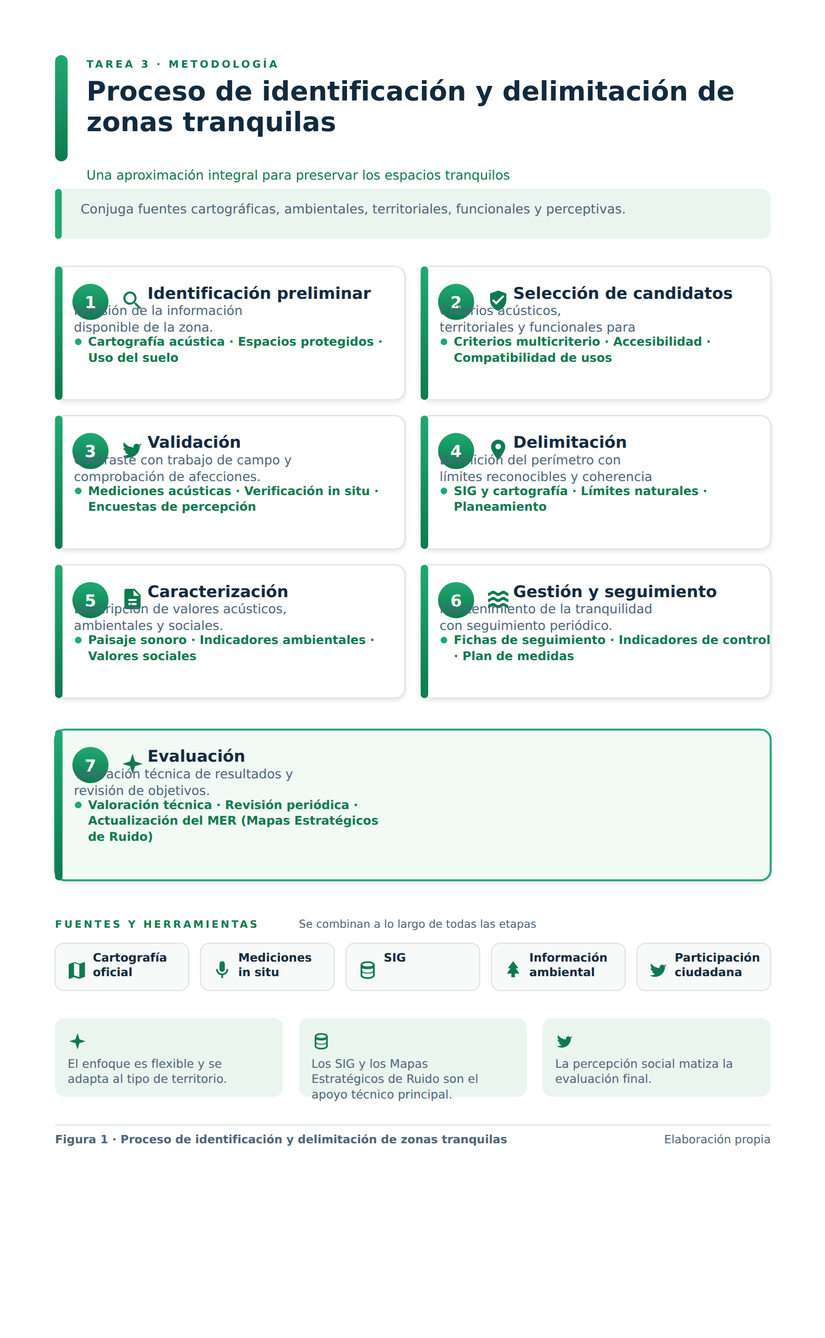
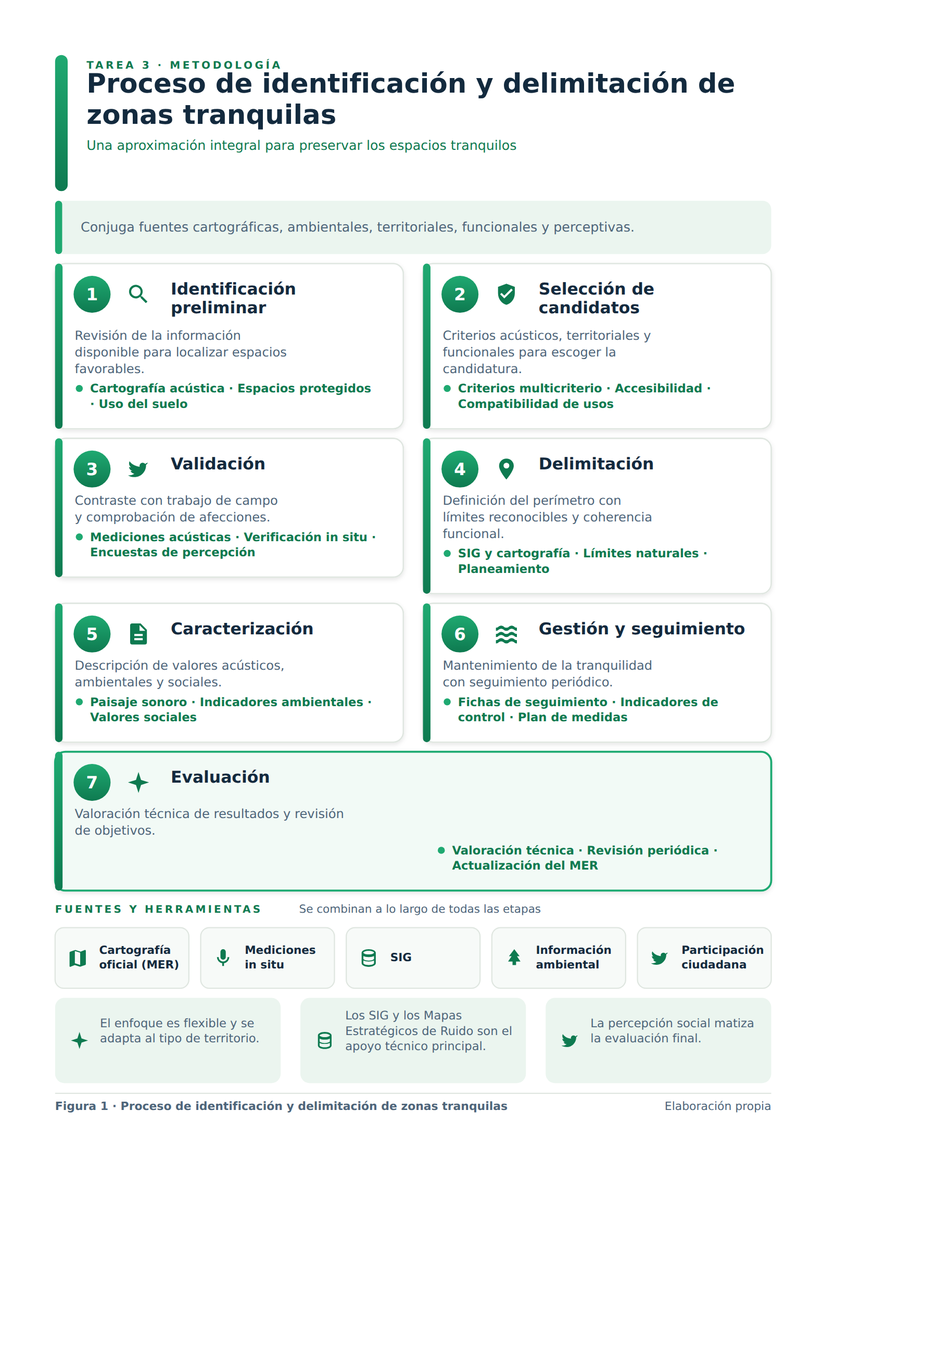
fix(prototipo): aire garantizado texto/icono, notas en columna y numeracion (NaN); verificador con matriz real del SVG

diff --git a/docs/prototipo-informe-a4/prototipo-informe-a4.html b/docs/prototipo-informe-a4/prototipo-informe-a4.html
@@ -1,10 +1,15 @@
 <!DOCTYPE html>
-<html lang="es"><head><meta charset="UTF-8"><title>Prototipo informe A4 v4</title>
+<html lang="es"><head><meta charset="UTF-8"><title>Prototipo informe A4 v5 (medido)</title>
 <style>html,body{margin:0;background:#fff}svg{display:block}</style>
 </head><body>
 <script>
-// ===== Prototipo v4: página A4 (210x297mm) para pegar en Word.
-// Toda la geometría en milímetros; el alto de cada tarjeta se MIDE, no se adivina.
+/* =========================================================================
+   Prototipo v5 — página A4 (210x297 mm) para pegar en Word.
+   REGLA DE ORO: no se estima nada. Cada línea se MIDE con getComputedTextLength()
+   y cada caja se dimensiona a su contenido. Aire garantizado entre icono y texto.
+   ========================================================================= */
+const NS='http://www.w3.org/2000/svg';
+const FONT="'Helvetica Neue',Helvetica,Arial,sans-serif";
 const LOGOS = {
   lupa:'M15.5 14h-.8l-.3-.3a6.5 6.5 0 1 0-.7.7l.3.3v.8l5 5 1.5-1.5-5-5zm-6 0a4.5 4.5 0 1 1 0-9 4.5 4.5 0 0 1 0 9z',
   escudo:'M12 2L4 5v6c0 5.5 3.4 9.7 8 11 4.6-1.3 8-5.5 8-11V5l-8-3zm-2 14l-4-4 1.4-1.4L10 13.2l6.6-6.6L18 8l-8 8z',
@@ -19,118 +24,185 @@ const LOGOS = {
   micro:'M12 14a3 3 0 0 0 3-3V5a3 3 0 0 0-6 0v6a3 3 0 0 0 3 3zm5-3a5 5 0 0 1-10 0H5a7 7 0 0 0 6 6.9V21h2v-3.1A7 7 0 0 0 19 11h-2z'
 };
 const PASOS = [
-  {t:'Identificación preliminar', i:'lupa',   d:'Revisión de la información disponible de la zona.', b:['Cartografía acústica','Espacios protegidos','Uso del suelo']},
-  {t:'Selección de candidatos',   i:'escudo', d:'Criterios acústicos, territoriales y funcionales para escoger.', b:['Criterios multicriterio','Accesibilidad','Compatibilidad de usos']},
+  {t:'Identificación preliminar', i:'lupa',   d:'Revisión de la información disponible para localizar espacios favorables.', b:['Cartografía acústica','Espacios protegidos','Uso del suelo']},
+  {t:'Selección de candidatos',   i:'escudo', d:'Criterios acústicos, territoriales y funcionales para escoger la candidatura.', b:['Criterios multicriterio','Accesibilidad','Compatibilidad de usos']},
   {t:'Validación',                i:'pajaro', d:'Contraste con trabajo de campo y comprobación de afecciones.', b:['Mediciones acústicas','Verificación in situ','Encuestas de percepción']},
   {t:'Delimitación',              i:'pin',    d:'Definición del perímetro con límites reconocibles y coherencia funcional.', b:['SIG y cartografía','Límites naturales','Planeamiento']},
   {t:'Caracterización',           i:'documento', d:'Descripción de valores acústicos, ambientales y sociales.', b:['Paisaje sonoro','Indicadores ambientales','Valores sociales']},
   {t:'Gestión y seguimiento',     i:'onda',   d:'Mantenimiento de la tranquilidad con seguimiento periódico.', b:['Fichas de seguimiento','Indicadores de control','Plan de medidas']},
-  {t:'Evaluación',                i:'chispa', d:'Valoración técnica de resultados y revisión de objetivos.', b:['Valoración técnica','Revisión periódica','Actualización del MER (Mapas Estratégicos de Ruido)']}
+  {t:'Evaluación',                i:'chispa', d:'Valoración técnica de resultados y revisión de objetivos.', b:['Valoración técnica','Revisión periódica','Actualización del MER']}
 ];
-const FUENTES = [['mapa','Cartografía oficial (MER)'],['micro','Mediciones in situ'],['bd','SIG'],['arbol','Información ambiental'],['pajaro','Participación ciudadana']];
-const NOTAS = [['chispa','El enfoque es flexible y se adapta al tipo de territorio.'],['bd','Los SIG y los Mapas Estratégicos de Ruido son el apoyo técnico principal.'],['pajaro','La percepción social matiza la evaluación final.']];
-const INTRO = 'Conjuga fuentes cartográficas, ambientales, territoriales, funcionales y perceptivas.';
-const TITULO = 'Proceso de identificación y delimitación de zonas tranquilas';
-const SUB = 'Una aproximación integral para preservar los espacios tranquilos';
+const FUENTES=[['mapa','Cartografía oficial (MER)'],['micro','Mediciones in situ'],['bd','SIG'],['arbol','Información ambiental'],['pajaro','Participación ciudadana']];
+const NOTAS=[['chispa','El enfoque es flexible y se adapta al tipo de territorio.'],['bd','Los SIG y los Mapas Estratégicos de Ruido son el apoyo técnico principal.'],['pajaro','La percepción social matiza la evaluación final.']];
+const INTRO='Conjuga fuentes cartográficas, ambientales, territoriales, funcionales y perceptivas.';
+const TITULO='Proceso de identificación y delimitación de zonas tranquilas';
+const SUB='Una aproximación integral para preservar los espacios tranquilos';
 
 const VERDE='#1FA971', VERDE_OSC='#0E7A50', TINTA='#132A3E', TINTA2='#4E657A', BORDE='#DFE6E0', VERDE_CLARO='#EBF5EF';
 const esc = s => String(s).replace(/[&<>]/g, m => ({'&':'&amp;','<':'&lt;','>':'&gt;'}[m]));
-const IC = (n,x,y,s,c)=>`<g transform="translate(${x},${y}) scale(${s/24})"><path d="${LOGOS[n]||LOGOS.chispa}" fill="${c}"/></g>`;
-function wrap(txt, maxMM, fs, maxLin){ const max=Math.max(4,Math.floor(maxMM/(fs*0.565))); const w=String(txt).split(/\s+/); const out=[]; let l='';
-  for(const p of w){ if((l+' '+p).trim().length>max && l){out.push(l); l=p;} else l=(l+' '+p).trim(); } if(l) out.push(l);
-  return maxLin?out.slice(0,maxLin):out; }
-function txt(x,y,fs,s,c,w,anch,tr){ return `<text x="${x}" y="${y}" font-family="'Helvetica Neue',Arial,sans-serif" font-size="${fs}" font-weight="${w||400}" fill="${c}" text-anchor="${anch||'start'}"${tr?` letter-spacing="${tr}"`:''}>${esc(s)}</text>`; }
-const blk=(x,y,fs,lh,ls,c,w)=>ls.map((l,i)=>txt(x,y+i*lh,fs,l,c,w)).join('');
-const PADT=4.6, LHT=4.7, LHD=4.2, LHB=4.0;
 
-// --- mide el contenido de una tarjeta ANTES de dibujarla (nada de adivinar) ---
-function layoutTarjeta(p, w, full){
-  const anchoT = full ? (w-34)/2 : w-28;
-  const tls = wrap(p.t, anchoT, 4.1, 2);
-  const dls = wrap(p.d, anchoT, 3.25, tls.length>1 ? 1 : 2);
-  const bw   = full ? (w-34)/2 : w-9;
-  const bls  = wrap(p.b.join(' · '), bw, 3.05, full?3:2);
-  const alto = PADT + tls.length*LHT + 1.4 + dls.length*LHD + 2.6 + bls.length*LHB + 3.4;
-  return {tls,dls,bls,alto};
+/* ---------- MEDIDOR REAL (getComputedTextLength) ---------- */
+const medidor = document.createElementNS(NS,'svg');
+medidor.setAttribute('viewBox','0 0 210 297');
+medidor.setAttribute('style','position:absolute;left:-9999px;top:0;width:210mm');
+const tMed = document.createElementNS(NS,'text'); medidor.appendChild(tMed);
+document.body.appendChild(medidor);
+function anchoReal(t,fs,peso,tr){
+  tMed.setAttribute('font-family',FONT); tMed.setAttribute('font-size',fs);
+  tMed.setAttribute('font-weight',peso||400); tMed.setAttribute('letter-spacing',tr||'0');
+  tMed.textContent=t; return tMed.getComputedTextLength();
 }
-function tarjeta(p, idx, x, yy, w, h, full){
-  const L = layoutTarjeta(p, w, full);
-  let o = `<rect x="${x}" y="${yy}" width="${w}" height="${h}" rx="2.6" fill="${full?'#F2FAF6':'#FFFFFF'}" stroke="${full?VERDE:BORDE}" stroke-width="${full?0.5:0.35}" filter="url(#sh)"/>`;
-  o += `<rect x="${x}" y="${yy}" width="1.9" height="${h}" rx="0.95" fill="url(#gNum)"/>`;
-  o += `<circle cx="${x+9}" cy="${yy+9}" r="4.6" fill="url(#gNum)"/>`;
-  o += txt(x+9, yy+10.6, 4.2, String(idx+1), '#FFFFFF', 700, 'middle');
-  o += IC(p.i, x+16.6, yy+5.6, 6.2, VERDE_OSC);
-  let cy = yy + PADT + 3.6;
-  o += blk(x+23.5, cy, 4.1, LHT, L.tls, TINTA, 700);
-  cy += (L.tls.length-1)*LHT + 4.2;
-  o += blk(x+4.8, cy, 3.25, LHD, L.dls, TINTA2, 400);
-  cy += (L.dls.length-1)*LHD + 3.6;
-  o += `<circle cx="${x+5.9}" cy="${cy-1.05}" r="0.85" fill="${VERDE}"/>`;
-  o += blk(x+8.4, cy, 3.05, LHB, L.bls, VERDE_OSC, 600);
-  s += o;
+const AVISOS=[];
+function wrapReal(texto, anchoMax, fs, peso, maxLin){
+  const palabras=String(texto).split(/\s+/); const lineas=[]; let l='';
+  for(const p of palabras){ const cand=l?l+' '+p:p;
+    if(anchoReal(cand,fs,peso)>anchoMax && l){ lineas.push(l); l=p; } else l=cand; }
+  if(l) lineas.push(l);
+  return { lineas: maxLin?lineas.slice(0,maxLin):lineas, cortado: !!(maxLin && lineas.length>maxLin) };
+}
+const txt=(x,y,fs,s,c,w,anch,tr)=>`<text x="${(+x).toFixed(2)}" y="${(+y).toFixed(2)}" font-family="${FONT}" font-size="${fs}" font-weight="${w||400}" fill="${c}" text-anchor="${anch||'start'}"${tr?` letter-spacing="${tr}"`:''}>${esc(s)}</text>`;
+const IC=(n,x,y,s,c)=>`<g transform="translate(${(+x).toFixed(2)},${(+y).toFixed(2)}) scale(${s/24})"><path d="${LOGOS[n]||LOGOS.chispa}" fill="${c}"/></g>`;
+const bloque=(x,y,fs,lh,ls,c,w)=>ls.map((l,i)=>txt(x,y+i*lh,fs,l,c,w)).join('');
+// mueve un bloque dibujado en (0, y0) a (dx, dy)
+function reubicar(svgStr, dx, dy){
+  return svgStr
+    .replace(/translate\((-?[\d.]+),\s*(-?[\d.]+)\)/g, (m,a,b)=>`translate(${(+a+dx).toFixed(2)},${(+b+dy).toFixed(2)})`)
+    .replace(/\b(x|y|cx|cy)="(-?[\d.]+)"/g, (m,k,v)=>{
+      const n=parseFloat(v); if(!isFinite(n)) return m;
+      return (k==='x'||k==='cx') ? k+'="'+(n+dx).toFixed(2)+'"' : k+'="'+(n+dy).toFixed(2)+'"';
+    });
 }
 
-const M=14, W=210, H=297, UTIL=W-2*M, GAP=4, CW=(UTIL-GAP)/2;
-let s = `<svg xmlns="http://www.w3.org/2000/svg" width="${(W/25.4*96).toFixed(1)}" height="${(H/25.4*96).toFixed(1)}" viewBox="0 0 ${W} ${H}">`;
-s += `<defs>
- <linearGradient id="gNum" x1="0" y1="0" x2="0" y2="1"><stop offset="0" stop-color="${VERDE}"/><stop offset="1" stop-color="${VERDE_OSC}"/></linearGradient>
- <filter id="sh" x="-8%" y="-8%" width="116%" height="116%"><feDropShadow dx="0" dy="0.45" stdDeviation="0.55" flood-color="#0d1f17" flood-opacity="0.10"/></filter>
-</defs><rect width="${W}" height="${H}" fill="#FFFFFF"/>`;
+/* ---------- geometría ---------- */
+const M=14, W=210, H=297, UTIL=W-2*M, GAPCOL=5, CW=(UTIL-GAPCOL)/2;
+const PADX=5, PADY=4.4, COL_ICONO=29.4;   // el texto arranca 29,4 mm desde el borde de la tarjeta
 
-// CABECERA
-let y=M;
-s += `<rect x="${M}" y="${y}" width="3.2" height="27" rx="1.6" fill="url(#gNum)"/>`;
-s += txt(M+8, y+3.2, 2.6, 'TAREA 3 · METODOLOGÍA', VERDE_OSC, 700, 'start', 0.6);
-const tl = wrap(TITULO, UTIL-13, 6.8, 2);
-s += blk(M+8, y+11.5, 6.8, 7.9, tl, TINTA, 700);
-s += txt(M+8, y+11.5+tl.length*7.9+4.4, 3.3, SUB, VERDE_OSC, 500);
-y += 34;
+function tarjeta(p, idx, x0, w, full){
+  const anchoTxt = full ? (w-COL_ICONO-PADX-6) : w-COL_ICONO-PADX;
+  const T={fs:4.15,lh:4.75}, D={fs:3.2,lh:4.2}, B={fs:3.0,lh:3.9};
+  const t=wrapReal(p.t, anchoTxt, T.fs, 700, 2);
+  const d=wrapReal(p.d, full?(w-COL_ICONO-PADX-6)/2:anchoTxt, D.fs, 400, 3);
+  const bw  = full ? (w-COL_ICONO-PADX-9)/2 : w-PADX-3.9-PADX-1;
+  const b=wrapReal(p.b.join(' · '), bw, B.fs, 600, 2);
+  if(t.cortado||d.cortado||b.cortado) AVISOS.push(p.t+(t.cortado?' (título)':d.cortado?' (descripción)':' (bullets)'));
+  // --- separación garantizada: el texto nunca queda a menos de 3 mm de un icono ---
+  const ICONO_TOP=PADY+0.2, ICONO_SIZE=6.4, AIRE_ICONO_TXT=3.0;
+  const iconoAbajo=ICONO_TOP+ICONO_SIZE;
+  const tituloBase=PADY+3.5;
+  const descBase=Math.max(tituloBase+t.lineas.length*T.lh+2.0, iconoAbajo+AIRE_ICONO_TXT+2.9);
+  const ultimaDesc=descBase+(d.lineas.length-1)*D.lh;
+  const bulletsBase=ultimaDesc+5.0;
+  const alto=bulletsBase+(b.lineas.length-1)*B.lh+PADY+0.9;
+  let o='';
+  o+=`<rect x="${x0}" y="0" width="${w}" height="${alto.toFixed(2)}" rx="2.6" fill="${full?'#F2FAF6':'#FFFFFF'}" stroke="${full?VERDE:BORDE}" stroke-width="${full?0.5:0.35}" filter="url(#sh)"/>`;
+  o+=`<rect x="${x0}" y="0" width="1.9" height="${alto.toFixed(2)}" rx="0.95" fill="url(#gNum)"/>`;
+  const cyN=PADY+3.4;
+  o+=`<circle cx="${(x0+9.4).toFixed(2)}" cy="${cyN.toFixed(2)}" r="4.7" fill="url(#gNum)"/>`;
+  o+=txt(x0+9.4, cyN+1.5, 4.3, String(idx+1), '#FFFFFF', 700, 'middle');
+  o+=IC(p.i, x0+COL_ICONO-11.4, ICONO_TOP, ICONO_SIZE, VERDE_OSC);
+  o+=bloque(x0+COL_ICONO, tituloBase, T.fs, T.lh, t.lineas, TINTA, 700);
+  o+=bloque(x0+PADX, descBase, D.fs, D.lh, d.lineas, TINTA2, 400);
+  const bx = full ? x0 + w/2 + 6 : x0+PADX;
+  o+=`<circle cx="${(bx+1.15).toFixed(2)}" cy="${(bulletsBase-1.05).toFixed(2)}" r="0.9" fill="${VERDE}"/>`;
+  o+=bloque(bx+3.9, bulletsBase, B.fs, B.lh, b.lineas, VERDE_OSC, 600);
+  return {svg:o, alto};
+}
 
-// INTRO
-const il = wrap(INTRO, UTIL-16, 3.3); const iH = 8+il.length*4.7;
-s += `<rect x="${M}" y="${y}" width="${UTIL}" height="${iH}" rx="2.2" fill="${VERDE_CLARO}"/>`;
-s += `<rect x="${M}" y="${y}" width="1.7" height="${iH}" rx="0.85" fill="${VERDE}"/>`;
-s += blk(M+6.5, y+6.2, 3.3, 4.7, il, TINTA2, 400);
-y += iH+7;
+let bloques=[];
+// cabecera
+{
+  const tl=wrapReal(TITULO, UTIL-12, 6.8, 700, 2), sl=wrapReal(SUB, UTIL-12, 3.35, 500, 2);
+  if(tl.cortado||sl.cortado) AVISOS.push('cabecera');
+  const alto=3.4+6.2+tl.lineas.length*7.9+6.6+sl.lineas.length*4.6-2;
+  let o=`<rect x="${M}" y="0" width="3.2" height="${alto.toFixed(2)}" rx="1.6" fill="url(#gNum)"/>`;
+  let cy=3.4; o+=txt(M+8, cy, 2.65, 'TAREA 3 · METODOLOGÍA', VERDE_OSC, 700, 'start', 0.6); cy+=6.2;
+  o+=bloque(M+8, cy, 6.8, 7.9, tl.lineas, TINTA, 700); cy+=(tl.lineas.length-1)*7.9+6.6;
+  o+=bloque(M+8, cy, 3.35, 4.6, sl.lineas, VERDE_OSC, 500);
+  bloques.push({svg:o, alto});
+}
+// intro
+{
+  const il=wrapReal(INTRO, UTIL-13, 3.35, 400);
+  const alto=PADY+il.lineas.length*4.75+PADY;
+  let o=`<rect x="${M}" y="0" width="${UTIL}" height="${alto.toFixed(2)}" rx="2.2" fill="${VERDE_CLARO}"/>`;
+  o+=`<rect x="${M}" y="0" width="1.8" height="${alto.toFixed(2)}" rx="0.9" fill="${VERDE}"/>`;
+  o+=bloque(M+6.5, PADY+3.4, 3.35, 4.75, il.lineas, TINTA2, 400);
+  bloques.push({svg:o, alto});
+}
+// pasos 1..6 en 2 columnas (altura de la fila = la mayor de las dos)
+{
+  const pares=PASOS.slice(0,PASOS.length-1);
+  for(let f=0;f<Math.ceil(pares.length/2);f++){
+    const c1=f*2<pares.length?tarjeta(pares[f*2], f*2, 0, CW, false):null;
+    const c2=f*2+1<pares.length?tarjeta(pares[f*2+1], f*2+1, 0, CW, false):null;
+    const alto=Math.max(c1?c1.alto:0, c2?c2.alto:0);
+    let o='';
+    if(c1) o+=reubicar(c1.svg, M, 0);
+    if(c2) o+=reubicar(c2.svg, M+CW+GAPCOL, 0);
+    bloques.push({svg:o, alto});
+  }
+}
+// paso 7 a ancho completo
+{ const c=tarjeta(PASOS[PASOS.length-1], PASOS.length-1, M, UTIL, true); bloques.push({svg:c.svg, alto:c.alto}); }
+// fuentes
+{
+  const fGap=3, fW=(UTIL-4*fGap)/5;
+  const meds=FUENTES.map(([ic,lab])=>{ const r=wrapReal(lab, fW-13, 2.85, 600, 2); if(r.cortado) AVISOS.push('fuente: '+lab); return r; });
+  const maxL=Math.max.apply(null, meds.map(m=>m.lineas.length));
+  const alto=7+Math.max(11, maxL*3.7+8);
+  let o=txt(M, 3.2, 2.65, 'FUENTES Y HERRAMIENTAS', VERDE_OSC, 700, 'start', 0.55);
+  o+=txt(M+62, 3.2, 2.85, 'Se combinan a lo largo de todas las etapas', TINTA2, 400);
+  FUENTES.forEach(([ic,lab],j)=>{ const fx=M+j*(fW+fGap), altoC=alto-7;
+    o+=`<rect x="${fx.toFixed(2)}" y="7" width="${fW.toFixed(2)}" height="${altoC.toFixed(2)}" rx="2.2" fill="#F7FAF8" stroke="${BORDE}" stroke-width="0.3"/>`;
+    o+=IC(ic, fx+3.0, 7+altoC/2-2.7, 5.4, VERDE_OSC);
+    const h=meds[j].lineas.length*3.7;
+    o+=bloque(fx+11.2, 7+altoC/2-h/2+2.7, 2.85, 3.7, meds[j].lineas, TINTA, 600);
+  });
+  bloques.push({svg:o, alto});
+}
+// notas (icono a la izquierda, texto a la derecha → nunca se pisan)
+{
+  const nGap=5, nW=(UTIL-2*nGap)/3, ANCHO_TXT=nW-13.5;
+  const meds=NOTAS.map(([ic,t0])=>{ const r=wrapReal(t0, ANCHO_TXT, 3.0, 500, 4); if(r.cortado) AVISOS.push('nota: '+t0.slice(0,24)); return r; });
+  const maxL=Math.max.apply(null, meds.map(m=>m.lineas.length));
+  const alto=5.0+maxL*3.9+5.0;
+  let o='';
+  NOTAS.forEach(([ic],j)=>{ const nx=M+j*(nW+nGap);
+    o+=`<rect x="${nx.toFixed(2)}" y="0" width="${nW.toFixed(2)}" height="${alto.toFixed(2)}" rx="2.4" fill="${VERDE_CLARO}"/>`;
+    const h=meds[j].lineas.length*3.9;
+    o+=IC(ic, nx+3.6, (alto-5.2)/2, 5.2, VERDE_OSC);
+    o+=bloque(nx+11.4, (alto-5.0-h)/2+3.0, 3.0, 3.9, meds[j].lineas, TINTA2, 500);
+  });
+  bloques.push({svg:o, alto});
+}
+// pie
+{
+  let o=`<rect x="${M}" y="0" width="${UTIL}" height="0.3" fill="${BORDE}"/>`;
+  o+=txt(M, 4.4, 2.9, 'Figura 1 · Proceso de identificación y delimitación de zonas tranquilas', TINTA2, 600);
+  o+=txt(W-M, 4.4, 2.9, 'Elaboración propia', TINTA2, 400, 'end');
+  bloques.push({svg:o, alto:5.2});
+}
 
-// PASOS
-const pares = PASOS.length-1, filas=Math.ceil(pares/2);
-const CH = Math.max.apply(null, PASOS.slice(0,pares).map(p=>layoutTarjeta(p,CW,false).alto)) + 0.8;
-for (let f=0; f<filas; f++) for (let c=0;c<2;c++){ const i=f*2+c; if(i<pares) tarjeta(PASOS[i], i, M+c*(CW+GAP), y+f*(CH+GAP), CW, CH); }
-y += filas*(CH+GAP) - GAP + 8;
-const CHfull = layoutTarjeta(PASOS[PASOS.length-1], UTIL, true).alto + 1.2;
-tarjeta(PASOS[PASOS.length-1], PASOS.length-1, M, y, UTIL, CHfull, true);
-y += CHfull + 9;
+/* ---------- reparto vertical ---------- */
+const GAP_BASE=6.5, GAP_MIN=3.0;
+const suma=bloques.reduce((a,b)=>a+b.alto,0), n=bloques.length-1;
+let gap=GAP_BASE;
+const libre=H-2*M-suma;
+if(libre < GAP_MIN*n) { gap=Math.max(1.2, libre/n); AVISOS.push('contenido muy justo'); }
+else if(libre/n < GAP_BASE) gap=libre/n;
+else gap=Math.min(12, GAP_BASE+(libre-GAP_BASE*n)/n);
+const usado=suma+gap*n;
+let cy=M+Math.max(0,(H-2*M-usado)/2);
+let cuerpo='';
+bloques.forEach((b,i)=>{ cuerpo+=reubicar(b.svg, 0, cy); cy+=b.alto+(i<bloques.length-1?gap:0); });
 
-// FUENTES
-s += txt(M, y+3, 2.6, 'FUENTES Y HERRAMIENTAS', VERDE_OSC, 700, 'start', 0.55);
-s += txt(M+62, y+3, 2.8, 'Se combinan a lo largo de todas las etapas', TINTA2, 400);
-y += 7;
-const fGap=3, fW=(UTIL-4*fGap)/5;
-FUENTES.forEach(([ic,lab],j)=>{ const fx=M+j*(fW+fGap);
-  s += `<rect x="${fx}" y="${y}" width="${fW}" height="12" rx="2.2" fill="#F7FAF8" stroke="${BORDE}" stroke-width="0.3"/>`;
-  s += IC(ic, fx+2.8, y+4.1, 5.4, VERDE_OSC);
-  s += blk(fx+9.6, y+4.6, 2.95, 3.7, wrap(lab, fW-12.5, 2.95, 2), TINTA, 600);
-});
-y += 12+7;
-
-// NOTAS
-const NW=(UTIL-2*GAP)/3;
-NOTAS.forEach((n,i)=>{ const nx=M+i*(NW+GAP);
-  s += `<rect x="${nx}" y="${y}" width="${NW}" height="20" rx="2.4" fill="${VERDE_CLARO}"/>`;
-  s += IC(n[0], nx+3.2, y+3.4, 5, VERDE_OSC);
-  s += blk(nx+3.2, y+12.6, 3.0, 3.9, wrap(n[1], NW-7, 3.0, 3), TINTA2, 500);
-});
-y += 20+7;
-
-// PIE DE FIGURA
-s += `<rect x="${M}" y="${y}" width="${UTIL}" height="0.3" fill="${BORDE}"/>`;
-s += txt(M, y+4.8, 2.9, 'Figura 1 · Proceso de identificación y delimitación de zonas tranquilas', TINTA2, 600);
-s += txt(W-M, y+4.8, 2.9, 'Elaboración propia', TINTA2, 400, 'end');
-y += 8;
-
-s += '</svg>';
-document.title = `ALTO=${y.toFixed(1)}mm/297 · libre abajo=${(297-y).toFixed(1)}mm · letra min 2.95mm=${(2.95*72/25.4).toFixed(1)}pt`;
-document.body.innerHTML = s;
+const svgFinal=`<svg xmlns="http://www.w3.org/2000/svg" width="${(W/25.4*96).toFixed(1)}" height="${(H/25.4*96).toFixed(1)}" viewBox="0 0 ${W} ${H}">`
++`<defs><linearGradient id="gNum" x1="0" y1="0" x2="0" y2="1"><stop offset="0" stop-color="${VERDE}"/><stop offset="1" stop-color="${VERDE_OSC}"/></linearGradient>`
++`<filter id="sh" x="-8%" y="-8%" width="116%" height="116%"><feDropShadow dx="0" dy="0.45" stdDeviation="0.55" flood-color="#0d1f17" flood-opacity="0.10"/></filter></defs>`
++`<rect width="${W}" height="${H}" fill="#FFFFFF"/>`+cuerpo+`</svg>`;
+document.body.innerHTML=svgFinal;
+medidor.remove();
+window.__BLOQUES=bloques.map(function(b,i){return {i:i,alto:+b.alto.toFixed(1)};});
+document.title=`usado=${usado.toFixed(1)}mm de 269 · aire=${gap.toFixed(2)}mm · avisos: ${AVISOS.length?AVISOS.join('; '):'NINGUNO'}`;
 </script>
 </body></html>

diff --git a/docs/prototipo-informe-a4/verificar-diseno.js b/docs/prototipo-informe-a4/verificar-diseno.js
@@ -1,0 +1,83 @@
+// Verificación del prototipo: bboxes REALES en mm (getScreenCTM, incluye transforms)
+const { spawn } = require('child_process');
+const fs = require('fs');
+const CHROME = '/home/nan/.cache/ms-playwright/chromium_headless_shell-1243/chrome-headless-shell-linux64/chrome-headless-shell';
+const LIBS = '/home/nan/.chrome-libs/usr/lib/x86_64-linux-gnu';
+const U = 'file://' + (process.argv[2] || '/home/nan/.hermes/cache/scratch/audit-smartart/prototipo-v5.html');
+const OUT = '/home/nan/.hermes/cache/scratch/audit-smartart';
+const PNG = process.argv[3] || 'PROTOTIPO-v5';
+const PORT = 9377;
+const sleep = ms => new Promise(r => setTimeout(r, ms));
+
+const JS = `(function(){
+  var svg=document.querySelector('svg');
+  var inv=svg.getScreenCTM().inverse();
+  function p2mm(px,py){ var p=svg.createSVGPoint(); p.x=px; p.y=py; var q=p.matrixTransform(inv); return {x:q.x,y:q.y}; }
+  function bb(el){ var r=el.getBoundingClientRect(); var a=p2mm(r.left,r.top), b=p2mm(r.right,r.bottom);
+    return {x:a.x,y:a.y,x2:b.x,y2:b.y,w:b.x-a.x,h:b.y-a.y}; }
+  var items=[];
+  svg.querySelectorAll('text,path,circle,rect,g').forEach(function(el){
+    var tag=el.tagName.toLowerCase(); if(tag==='g' && el.querySelector('g')) return;
+    var b=bb(el); if(!b||b.w<=0||b.h<=0) return;
+    var tipo= tag==='text'?'texto':(tag==='g'?'icono':(tag==='rect'&&b.w>18?'caja':(tag==='circle'&&b.w>=18?'caja':'otro')));
+    items.push({tipo:tipo,s:(tag==='text'?el.textContent.slice(0,44):tag),x:+b.x.toFixed(2),y:+b.y.toFixed(2),x2:+b.x2.toFixed(2),y2:+b.y2.toFixed(2),w:+b.w.toFixed(2),h:+b.h.toFixed(2)});
+  });
+  function ov(a,b){var ix=Math.min(a.x2,b.x2)-Math.max(a.x,b.x),iy=Math.min(a.y2,b.y2)-Math.max(a.y,b.y);return(ix>0.25&&iy>0.25)?{ix:+ix.toFixed(2),iy:+iy.toFixed(2)}:null;}
+  var T=items.filter(function(i){return i.tipo==='texto';});
+  var I=items.filter(function(i){return i.tipo==='icono';});
+  var C=items.filter(function(i){return i.tipo==='caja';});
+  var choques=[]; T.forEach(function(t){I.forEach(function(ic){var s=ov(t,ic); if(s) choques.push({texto:t.s,solape:s,icono:[ic.x,ic.y]});});});
+  var fuera=[]; T.forEach(function(t){
+    var host=C.filter(function(c){return t.x>=c.x-0.6&&t.x<=c.x2+0.6&&t.y>=c.y-0.6&&t.y<=c.y2+0.6;})
+      .sort(function(a,b){return(a.w*a.h)-(b.w*b.h);})[0];
+    if(host){var dr=t.x2-host.x2, db=t.y2-host.y2, iz=host.x-t.x;
+      if(dr>0.15||db>0.15||iz>0.15) fuera.push({texto:t.s,derecha:+dr.toFixed(2),abajo:+db.toFixed(2),izquierda:+iz.toFixed(2)});} });
+  var dmin=99,par='',cercanos=[];
+  T.forEach(function(t){I.forEach(function(ic){
+    var dx=Math.max(ic.x-t.x2,t.x-ic.x2,0), dy=Math.max(ic.y-t.y2,t.y-ic.y2,0);
+    var d=Math.sqrt(dx*dx+dy*dy);
+    if(d<dmin){dmin=d; par=t.s+'  ↔  icono@['+ic.x+','+ic.y+']';}
+    if(d<3.5) cercanos.push({d:+d.toFixed(2), texto:t.s, icono:[ic.x,ic.y,t.w,ic.h], textoBox:[t.x,t.y,t.w,t.h]}); });});
+  cercanos.sort(function(a,b){return a.d-b.d;});
+  var nanTextos=[]; svg.querySelectorAll('text').forEach(function(t){ if(/NaN|undefined|null/.test(t.textContent)) nanTextos.push(t.textContent); });
+  var minFs=99; svg.querySelectorAll('text').forEach(function(t){var f=parseFloat(t.getAttribute('font-size')); if(f<minFs) minFs=f;});
+  return JSON.stringify({titulo:document.title,textos:T.length,iconos:I.length,cajas:C.length,
+    choques:choques,fueraDeCaja:fuera,distanciaMin:+dmin.toFixed(2),parCercano:par,
+    nanTextos:nanTextos,letraMinMM:minFs,letraMinPT:+(minFs*72/25.4).toFixed(1),cercanos:cercanos.slice(0,6),
+    bloques:(window.__BLOQUES||[]).map(function(b){return b.alto;}).join('+')});
+})()`;
+
+(async () => {
+  const chrome = spawn(CHROME, ['--remote-debugging-port=' + PORT, '--headless=new', '--no-sandbox', '--disable-gpu', '--force-device-scale-factor=2', 'about:blank'],
+    { env: { ...process.env, LD_LIBRARY_PATH: LIBS }, stdio: 'ignore' });
+  for (let i = 0; i < 60; i++) { try { if ((await fetch('http://127.0.0.1:' + PORT + '/json/version')).ok) break; } catch { } await sleep(300); }
+  const tab = await (await fetch('http://127.0.0.1:' + PORT + '/json/new?' + encodeURIComponent(U), { method: 'PUT' })).json();
+  const ws = new WebSocket(tab.webSocketDebuggerUrl);
+  let id = 0; const pend = new Map();
+  const send = (m, p = {}) => new Promise((res, rej) => { const i = ++id; pend.set(i, { res, rej }); ws.send(JSON.stringify({ id: i, method: m, params: p })); });
+  ws.addEventListener('message', e => { const m = JSON.parse(e.data); if (m.id && pend.has(m.id)) { const p = pend.get(m.id); pend.delete(m.id); m.error ? p.rej(m.error) : p.res(m.result); } });
+  await new Promise(r => ws.addEventListener('open', r));
+  await send('Page.enable'); await send('Runtime.enable');
+  await send('Emulation.setDeviceMetricsOverride', { width: 900, height: 1300, deviceScaleFactor: 2, mobile: false });
+  await send('Page.navigate', { url: U });
+  await sleep(1500);
+  const r = await send('Runtime.evaluate', { returnByValue: true, expression: JS });
+  const d = JSON.parse(r.result.value);
+  console.log('TITULO: ' + d.titulo);
+  console.log('textos=' + d.textos + ' iconos=' + d.iconos + ' cajas=' + d.cajas + ' | letra mínima ' + d.letraMinMM + 'mm = ' + d.letraMinPT + 'pt');
+  console.log('TEXTOS CON NaN/undefined: ' + (d.nanTextos.length? d.nanTextos.join(', ') : 'ninguno'));
+console.log('ALTOS: ' + d.bloques);
+  console.log('CHOQUES texto/icono: ' + d.choques.length);
+  d.choques.forEach(c => console.log('   "' + c.texto + '" × icono@' + JSON.stringify(c.icono) + ' solape ' + JSON.stringify(c.solape)));
+  console.log('TEXTOS FUERA DE CAJA: ' + d.fueraDeCaja.length);
+  d.fueraDeCaja.forEach(c => console.log('   "' + c.texto + '" der=' + c.derecha + ' abajo=' + c.abajo + ' izq=' + c.izquierda));
+  console.log('DISTANCIA MÍNIMA texto↔icono: ' + d.distanciaMin + ' mm');
+(d.cercanos||[]).forEach(function(c){ console.log('   <3,5mm: ' + c.d + 'mm  "' + c.texto + '"  icono@' + JSON.stringify(c.icono.slice(0,2)) + '  textoBox@' + JSON.stringify(c.textoBox)); });
+  const full = await send('Page.captureScreenshot', { format: 'png', captureBeyondViewport: true });
+  fs.writeFileSync(OUT + '/' + PNG + '.png', Buffer.from(full.data, 'base64'));
+  const z = async (n, c) => { const s = await send('Page.captureScreenshot', { format: 'png', clip: c, captureBeyondViewport: true }); fs.writeFileSync(OUT + '/' + n + '.png', Buffer.from(s.data, 'base64')); };
+  await z(PNG + '-zoom-tarjetas', { x: 40, y: 330, width: 400, height: 260, scale: 3 });
+  await z(PNG + '-zoom-pie', { x: 40, y: 930, width: 720, height: 230, scale: 2 });
+  console.log('capturas OK → ' + OUT + '/' + PNG + '.png');
+  chrome.kill(); await sleep(300); process.exit(0);
+})().catch(e => { console.log('ERROR', (e && e.message) || e); process.exit(1); });
